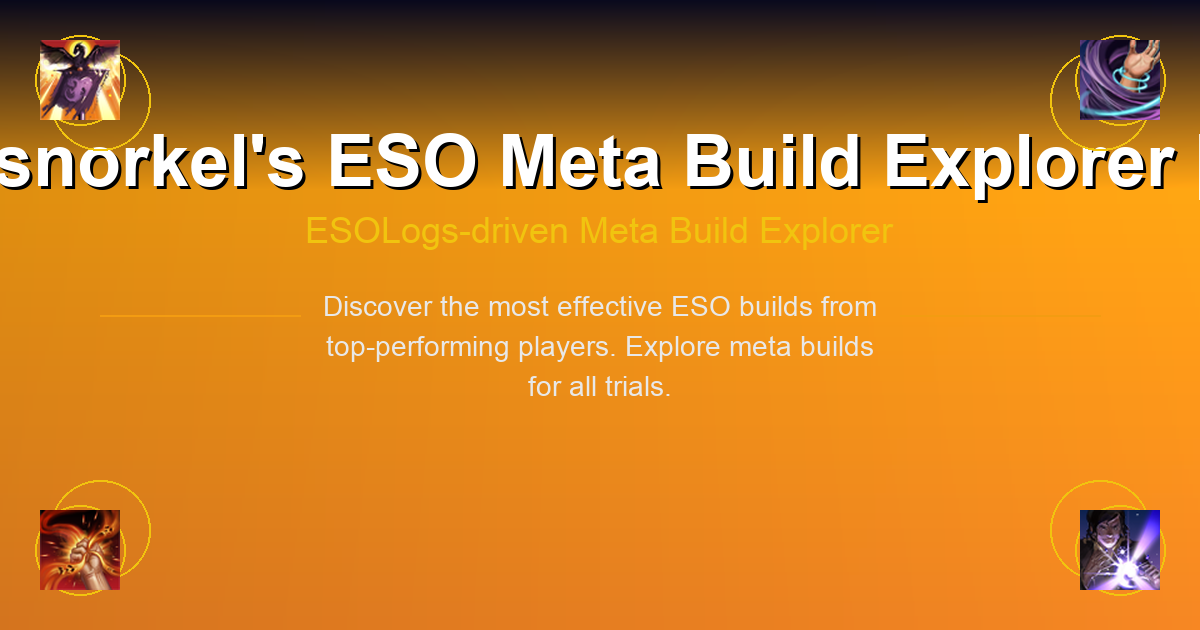
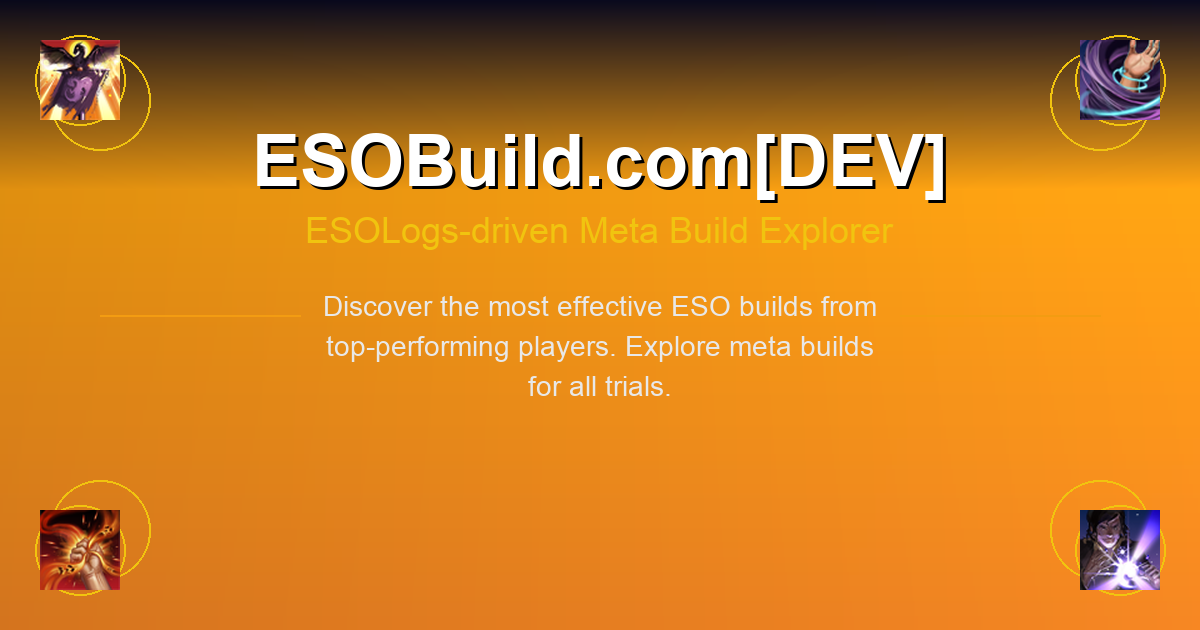
Regenerate social preview images with latest enhancements
- Updated social preview images with optimized rendering
- File sizes: dev 119KB, production 120KB, build 102KB
- Images include ESO ability icons and enhanced gradients
- Ready for social media platform testing

Changed region(s): [[0.0, 0.2111, 0.9867, 0.3317]]

diff --git a/src/eso_build_o_rama/social_preview_generator.py b/src/eso_build_o_rama/social_preview_generator.py
@@ -73,9 +73,9 @@ class SocialPreviewGenerator:
                 description_font = ImageFont.load_default()
         
         # Main title
-        title_text = "Brainsnorkel's ESO Meta Build Explorer"
+        title_text = "ESOBuild.com"
         if is_develop:
-            title_text += " [DEV]"
+            title_text += "[DEV]"
         
         title_bbox = draw.textbbox((0, 0), title_text, font=title_font)
         title_width = title_bbox[2] - title_bbox[0]
